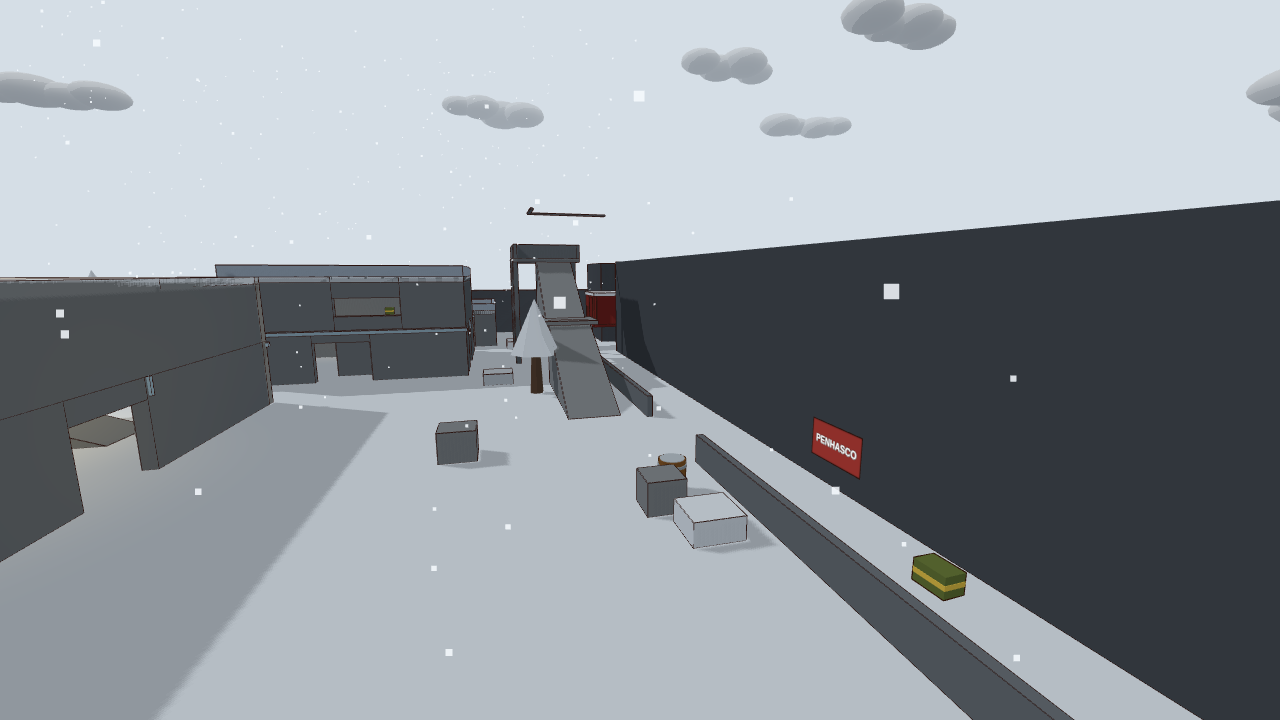
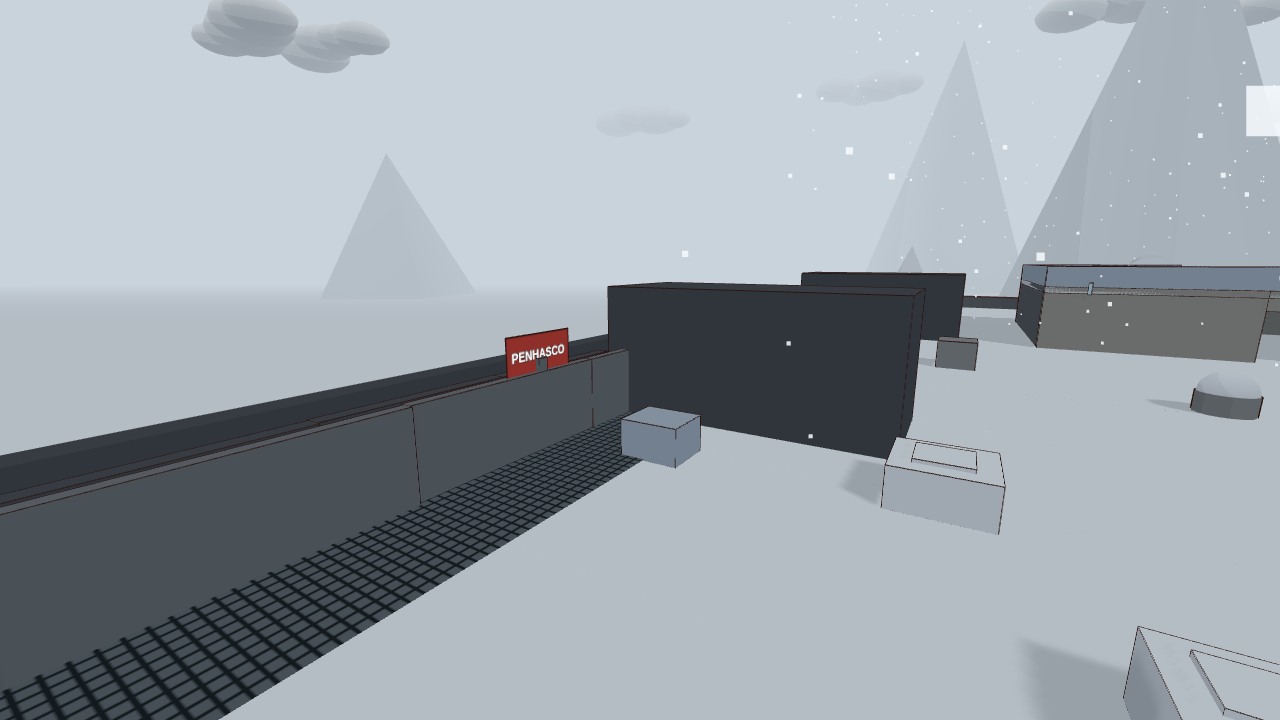
Ajusta o Posto Nevasca na rodada 2: passarela curva, pátio e penhasco.
A visada no chão do oeste cai para cerca de 34 m. A Sala Fria ganha claraboia de vidro, e o pátio sul desce 1,5 m com escada.

diff --git a/maps.js b/maps.js
@@ -532,29 +532,51 @@ export const MAPS = [];
   const H = 3.4;
   const col = { wall: METAL, wall2: METAL2, inner: IN, floor: FLOOR, roof: SNOW, roof2: SNOW2, stair: METAL, trim: ICE };
   const boxes = [];
-  const mound = (x, z, s = 2, h = 0.75) => boxes.push(B(x - s / 2, z - s / 2, x + s / 2, z + s / 2, h, h > 0.85 ? SNOW2 : SNOW));
+  const mound = (x, z, s = 2, h = 0.75, y0 = 0) => {
+    const base = Math.max(h, 0.95);
+    boxes.push(B(x - s / 2, z - s / 2, x + s / 2, z + s / 2, base, SNOW, y0));
+    boxes.push(B(x - s * 0.28, z - s * 0.28, x + s * 0.28, z + s * 0.28, 0.35, SNOW, y0 + base * 0.72));
+  };
   const C = (x, z, s = 1.3, h = 1.15, c = METAL2, y0 = 0) => boxes.push(crate(x, z, s, h, c, y0));
 
-  // lábio do penhasco: 0,4 m, dá pra passar. A oeste o chão some (map.fall) e y < -8 mata.
-  boxes.push(B(-24.15, -8, -23.7, 41.5, 12.4, ROCK, -12), B(-24.15, 48.2, -23.7, 56, 12.4, ROCK, -12));
-  // passarela: corredor de ~3,4 m. Guarda-corpo de 1,05 m não tampa o olho (1,6 m) — linha longa.
-  const rail = (z0, z1) => boxes.push(B(-21.28, z0, -21.02, z1, 1.05, METAL2));
-  rail(-6, 13.2); rail(19.6, 36.4);
+  // encosta oeste: a borda curva até 5 m para fora, pico em z=-2 (y do dossiê = 62).
+  const bulge = (z) => { const t = (z + 2) / 28; return (t <= -1 || t >= 1) ? 0 : 5 * (1 - t * t); };
+  const voids = [];
+  for (let z = -34; z < 28; z += 6) {
+    const z1 = Math.min(28, z + 6);
+    const edge = -24 - Math.max(bulge(z), bulge(z + 3), bulge(z1));
+    boxes.push(B(edge - 0.5, z, edge, z1, 1.15, ROCK)); // borda de 1,15 m
+    const gap = z1 > -8 && z < 4; // trecho em que dá para cair de verdade
+    if (!gap) boxes.push({ b: [edge - 0.4, 0, z, edge + 0.08, 4, z1], hide: true }); // colisor invisível de 4 m
+    const inner = edge + 3.5;
+    if (!(z >= 12 && z < 20)) boxes.push(B(inner, z, inner + 0.28, z1, 2.15, METAL2)); // fecha a corda reta
+    voids.push([-31, z, edge - 0.15, z1]);
+  }
+  voids.push([-31, 28, -24.2, 60], [-31, -60, -24.2, -34]);
+  boxes.push(B(26.4, -58, 30.6, 58, 4.5, ROCK)); // fecha o leste que o size maior abriu
+  boxes.push(B(-25.6, -2.15, -25.28, -1.85, 2.5, METAL2)); // mastro da placa PENHASCO
+  // rochas de 5 × 4 × 3,5 m: y45 → z=15, y92 → z=-32 (cortam a visada)
+  boxes.push(B(-27.2, 13, -16.2, 17, 4.2, ROCK), B(-26, -34, -16, -30, 4.2, ROCK));
+  boxes.push(B(-26, -10, -17, -6, 4.2, ROCK), B(-22, 46, -16.2, 49.2, 3.2, ROCK), B(-24, -54, -16.2, -50, 3.2, ROCK));
+  boxes.push(B(-12, 4, -5, 10, 2.8, ROCK), B(-22, 18, -15, 24, 2.8, ROCK), B(2, -38, 8, -33, 2.4, ROCK));
+  for (const z of [22, 8, -4, -16]) boxes.push(B(-23.2, z, -21.6, z + 1.4, 1.0, SNOW2)); // cobertura de 1 m a cada ~12–14 m
 
   // lab norte (spawn), 1 andar, portas pro pátio
   boxes.push(...building(-14, 48, 10, 58, { col, floors: 1, H: 3.5, parapet: 0.6,
     ops: [{ s: 'n', a: -8, b: -5 }, { s: 'n', a: 2, b: 5.2 }, { s: 's', a: -2, b: 1.2 }, { s: 'e', a: 50, b: 53 },
       { s: 'n', a: -12, b: -9.5, k: 'win', lo: 1.05, hi: 2.15 }, { s: 'w', a: 50, b: 53.2, k: 'win', lo: 1.05, hi: 2.1 }],
     inner: [{ axis: 'x', s0: -13.4, s1: 9.4, line: 53.2, ops: [{ a: -2.2, b: 1.2 }] }] }));
-  // prédio B3, 2 andares, entre o pátio e o lab
-  boxes.push(...building(-12, 33, 2, 45, { col, floors: 2, H, parapet: 0.7,
-    ops: [{ s: 'n', a: -6, b: -2.6 }, { s: 'e', a: 36, b: 39.4 }, { s: 's', a: -8, b: -4.6 }, { s: 'w', a: 36.5, b: 39.5 },
-      { s: 'e', a: 40.2, b: 43.2, f: 1, k: 'win', lo: 0.85, hi: 2.05 }, { s: 'n', a: -8, b: -4, f: 1, k: 'win', lo: 0.85, hi: 2.05 }],
-    stairs: [{ f: 0, r: [-9.6, 35.2, -3.4, 37.8], axis: 'x', dir: 1 }] }));
-  // garagem / sala com escada (lado do carro)
-  boxes.push(...building(8, 34, 18, 46, { col: { ...col, wall: CONC, wall2: METAL }, floors: 1, H: 3.6, parapet: 0.5,
-    ops: [{ s: 'n', a: 10.2, b: 14.2, k: 'wide' }, { s: 'w', a: 38, b: 41.2 }, { s: 'e', a: 37, b: 40 }] }));
-  C(13.5, 42, 2.2, 1.15, '#6E7378'); C(15.2, 40.2, 1.2, 0.9, RUST);
+  // pátio entre o lab (z≥48) e a Sala Fria (z≤28): os dois prédios do meio, corredor de 3,6 m.
+  // O antigo "prédio do meio" 14×12 era x −12…2, z 33…45 — na vista de cima parecia parte do lab. Agora é o bloco oeste.
+  boxes.push(...building(-16, 31, -2, 43, { col, floors: 2, H, parapet: 1.7,
+    ops: [{ s: 'n', a: -10, b: -6.4 }, { s: 's', a: -12, b: -8.4 }, { s: 'e', a: 34, b: 37.6 }, { s: 'w', a: 36, b: 39.4 },
+      { s: 'e', a: 38, b: 41.5, f: 1, k: 'win', lo: 0.85, hi: 2.05 }],
+    stairs: [{ f: 0, r: [-13.5, 33.2, -6.8, 36.2], axis: 'x', dir: 1 }] }));
+  boxes.push(...building(1.6, 30, 19.6, 44, { col: { ...col, wall: CONC, wall2: METAL }, floors: 2, H, parapet: 1.7,
+    ops: [{ s: 'n', a: 6, b: 9.6, k: 'wide' }, { s: 's', a: 8, b: 11.6 }, { s: 'w', a: 34, b: 37.6 }, { s: 'e', a: 36, b: 39.4 },
+      { s: 's', a: 14, b: 17.5, f: 1, k: 'win', lo: 0.85, hi: 2.05 }],
+    stairs: [{ f: 0, r: [4, 32.2, 11.2, 35.4], axis: 'x', dir: 1 }, { f: 1, r: [4, 38, 11.2, 41.2], axis: 'x', dir: 1 }] }));
+  C(8.5, 40, 1.6, 1.1, '#6E7378', H); C(14, 36, 1.2, 0.9, RUST);
 
   // SALA FRIA / control room: 22 × 22 m, mezanino a +3,4 m, átrio aberto, 5 portas
   boxes.push(...building(-2, 6, 20, 28, { col: { ...col, wall: CONC, wall2: METAL, inner: '#C4BFB4' }, floors: 2, H, roof: false,
@@ -564,14 +586,22 @@ export const MAPS = [];
       { s: 'w', a: 8.5, b: 12, f: 1, k: 'win', lo: 0.8, hi: 2.05 }, { s: 'e', a: 20, b: 24, f: 1, k: 'win', lo: 0.8, hi: 2.05 }],
     stairs: [{ f: 0, r: [1.6, 21.4, 10.2, 24.3], axis: 'x', dir: 1 }],
     floorHoles: { 1: [[-1.4, 6.6, 15.4, 20.4]] } }));
-  boxes.push(...slab(-2, 6, 20, 28, 2 * H, 0.35, SNOW, [[6.5, 12.5, 13.5, 19.5]]));
-  boxes.push(B(-1.6, 20.28, 15.2, 20.52, 1.0, METAL2, H), B(15.28, 6.9, 15.52, 20.35, 1.0, METAL2, H));
-  C(4.2, 12.2, 1.35, 1.2, METAL); C(5.6, 12.2, 1.15, 1.2, METAL2); C(11.2, 25.2, 1.3, 1.05, METAL, H);
+  boxes.push(...slab(-2, 6, 20, 28, 2 * H, 0.35, SNOW, [[5, 11, 13, 23]])); // vão da claraboia 8 × 12 m
+  // guarda-corpo de 1 m em volta do átrio
+  boxes.push(B(-1.5, 20.28, 15.2, 20.55, 1.0, METAL2, H), B(-1.5, 6.55, 15.2, 6.82, 1.0, METAL2, H));
+  boxes.push(B(15.22, 6.8, 15.5, 20.4, 1.0, METAL2, H), B(-1.55, 6.8, -1.28, 20.4, 1.0, METAL2, H));
+  // consoles (1,1 m) e arquivos de aço (2 m)
+  boxes.push(B(2.2, 12.4, 7.4, 13.8, 1.1, '#4d5963'), B(2.2, 16.2, 7.4, 17.6, 1.1, '#4d5963'));
+  for (const [x, z] of [[16.2, 8.2], [16.2, 22.4], [16.2, 24.6], [-0.4, 8.4], [3.2, 8.4], [3.2, 24.2]]) boxes.push(B(x, z, x + 0.7, z + 1.4, 2.0, '#9aa3aa'));
+  C(11.2, 25.2, 1.3, 1.05, METAL, H);
+  // chapa: frisos verticais na face norte da Sala Fria
+  for (let x = -1; x < 19; x += 1.7) boxes.push(B(x, 27.85, x + 0.12, 28.15, 3.1, METAL2, 0.2));
 
   // salas estreitas a leste (CQB), parede oeste é a da sala fria
   boxes.push(...building(20, 8, 26, 32, { col, floors: 1, H: 3.3, parapet: 0.4, noWall: ['w0'],
-    ops: [{ s: 'e', a: 12, b: 15 }, { s: 'e', a: 22, b: 25 }, { s: 's', a: 21.5, b: 24.4 }, { s: 'n', a: 21.2, b: 24.2 }],
-    inner: [{ axis: 'x', s0: 20.4, s1: 25.6, line: 18, ops: [{ a: 21.3, b: 24.1 }] }, { axis: 'x', s0: 20.4, s1: 25.6, line: 25, ops: [{ a: 21.3, b: 24.1 }] }] }));
+    ops: [{ s: 'e', a: 12, b: 15 }, { s: 'e', a: 22, b: 25 }, { s: 's', a: 23.4, b: 25.6 }, { s: 'n', a: 20.6, b: 22.4 }],
+    inner: [{ axis: 'x', s0: 20.4, s1: 25.6, line: 18, ops: [{ a: 23.2, b: 25.4 }] }, { axis: 'x', s0: 20.4, s1: 25.6, line: 25, ops: [{ a: 20.8, b: 22.6 }] }] }));
+  boxes.push(B(21.4, 40, 23.2, 44, 2.6, ROCK), B(21.4, -8, 23.2, -4, 2.6, ROCK), B(21.4, -42, 23.2, -38, 2.6, ROCK));
 
   // galpão sul + rampa pro telhado (antena)
   boxes.push(...building(-12, -46, 12, -30, { col: { ...col, wall: CONC }, floors: 1, H: 3.6, parapet: 1.15,
@@ -579,14 +609,21 @@ export const MAPS = [];
     roofGaps: [{ s: 'n', a: -2.6, b: 2.6 }] }));
   boxes.push(B(-2.7, -49.4, 2.7, -46, 0.28, SNOW, 3.32), R(-2.2, -55.2, 2.2, -49.2, 0, 3.6, 'z', 1, METAL));
   boxes.push(B(3.55, -38.45, 3.95, -38.05, 6.2, RUST, 3.6), B(3.2, -39.3, 4.3, -38.9, 0.35, RUST, 9.5));
+  // pátio sul a −1,5 m + escada metálica
+  boxes.push(B(-14, -26, 18, -6, 0.3, SNOW2, -1.8));
+  boxes.push(R(-1.6, -28.4, 1.6, -22.2, -1.5, 0, 'z', -1, METAL));
+  boxes.push(B(-1.9, -28.4, -1.62, -22.2, 1.0, METAL2, -1.2), B(1.62, -28.4, 1.9, -22.2, 1.0, METAL2, -1.2));
 
-  // torre do cabo (+8,1 m) e duas rampas, a leste da passarela
-  boxes.push(R(-19.8, 20.2, -17.2, 29, 0, 4.05, 'z', 1, METAL), B(-20.3, 28.2, -16.7, 31.1, 0.24, METAL, 3.81));
-  boxes.push(R(-19.8, 30.4, -17.2, 37.2, 4.05, 8.15, 'z', 1, METAL));
-  boxes.push(B(-20.5, 36.6, -15.5, 42.2, 0.28, METAL, 7.87));
-  for (const [x, z] of [[-20.2, 36.9], [-15.8, 36.9], [-20.2, 41.9], [-15.8, 41.9]]) boxes.push(B(x, z, x + 0.35, z + 0.35, 8.15, METAL2));
-  boxes.push(B(-20.5, 36.6, -15.5, 36.85, 1.0, METAL2, 8.15), B(-20.5, 41.95, -15.5, 42.2, 1.0, METAL2, 8.15));
-  boxes.push(B(-20.5, 36.6, -20.25, 42.2, 1.0, METAL2, 8.15), B(-15.75, 36.6, -15.5, 42.2, 1.0, METAL2, 8.15));
+  // torre treliçada (+8,1 m), a oeste do bloco do meio, fora do corredor
+  boxes.push(R(-22.4, 22, -19.6, 30, 0, 4.05, 'z', 1, METAL), B(-22.8, 29.4, -19.2, 32.2, 0.24, METAL, 3.81));
+  boxes.push(R(-22.4, 31.6, -19.6, 40, 4.05, 8.15, 'z', 1, METAL));
+  boxes.push(B(-23.2, 39.2, -18.4, 44.6, 0.28, METAL, 7.87));
+  for (const [x, z] of [[-22.9, 39.4], [-18.7, 39.4], [-22.9, 44.2], [-18.7, 44.2]]) {
+    boxes.push(B(x, z, x + 0.28, z + 0.28, 8.15, METAL2));
+    boxes.push(B(x + 0.05, z, x + 0.22, z + 4.6, 0.16, METAL2, 2.4), B(x, z + 0.05, x + 4.2, z + 0.2, 0.16, METAL2, 4.6));
+  }
+  boxes.push(B(-23.2, 39.2, -18.4, 39.45, 1.75, METAL2, 8.15), B(-23.2, 44.35, -21.2, 44.6, 1.75, METAL2, 8.15), B(-20.2, 44.35, -18.4, 44.6, 1.75, METAL2, 8.15));
+  boxes.push(B(-23.2, 39.2, -22.95, 44.6, 1.75, METAL2, 8.15), B(-18.65, 39.2, -18.4, 44.6, 1.75, METAL2, 8.15));
 
   // teleférico no rasgo do penhasco (piso a +2,37 m)
   const gy = 2.37;
@@ -595,55 +632,65 @@ export const MAPS = [];
   boxes.push(...wallZ(42.45, 46.55, -22.8, 0.18, 2.6, RUST, [door(43.15, 45.85, 2.45)], gy));
   boxes.push(...wallX(-25.7, -22.95, 42.4, 0.18, 2.6, RUST, [], gy));
   boxes.push(...wallX(-25.7, -22.95, 46.6, 0.18, 2.6, RUST, [], gy));
-  boxes.push(B(-25.95, 42.25, -22.65, 46.75, 0.28, SNOW, gy + 2.6));
+  boxes.push(B(-25.95, 42.25, -22.65, 46.75, 0.32, SNOW, gy + 2.55));
   boxes.push(R(-22.65, 43.15, -17.6, 45.85, 0, gy, 'x', -1, METAL));
-  boxes.push({ wp: [-21.3, gy, 44.5] }, { wp: [-24.2, gy, 44.5] }, { wp: [-18.2, 8.15, 39] }, { wp: [-18.6, 4.05, 29.5] });
-  // cabo (acima da cabeça de quem está na torre)
-  boxes.push(B(-24.2, 44.2, -17.2, 44.45, 0.12, METAL2, 12.2), B(-17.4, 40.6, -17.15, 44.5, 0.12, METAL2, 12.2));
+  boxes.push({ wp: [-21.3, gy, 44.5] }, { wp: [-24.2, gy, 44.5] }, { wp: [-20.6, 8.15, 42] }, { wp: [-21, 4.05, 31] });
+  // dois cabos: cabine → torre → fora do mapa, para a neblina
+  boxes.push(B(-24.4, 43.6, -19.2, 43.78, 0.08, '#3a4248', 8.4), B(-24.4, 45.3, -19.2, 45.48, 0.08, '#3a4248', 7.6));
+  boxes.push(B(-30.5, 43.6, -24.2, 43.78, 0.08, '#3a4248', 11.5), B(-30.5, 45.3, -24.2, 45.48, 0.08, '#3a4248', 12.2));
 
   // montes de neve (0,55–1,0 m) e caixotes de cobertura — pátio norte, vão central, pátio sul
   for (const [x, z, s, h] of [[-16, 46.2, 2.1, 0.7], [-14, 30.2, 1.8, 0.7], [5.2, 30.6, 1.7, 0.8], [14.2, 31.2, 2, 0.85],
     [-16, -4, 2, 0.95], [-13.2, 1.4, 1.5, 0.85], [2.6, -6.6, 1.5, 0.9], [-6, -8, 1.6, 0.7], [10, -6, 1.6, 0.9], [18, -4, 1.6, 0.75],
-    [-16, -14, 2, 0.85], [8, -12, 1.8, 0.65], [17, -16, 2, 1.0], [-15, -24, 2, 0.8],
-    [10, -24, 2, 0.75], [18, -26, 2.1, 0.9], [-6, 2.2, 2, 0.8], [14, 3.2, 1.8, 0.7], [22.5, 4.2, 1.5, 0.65],
-    [-19.4, 8.2, 1.5, 0.7], [0, 3.4, 1.6, 0.7]]) mound(x, z, s, h);
-  C(-12.4, 16.2, 1.4, 1.2, METAL); C(-8, -20, 1.5, 1.3, '#6E5438'); C(14, -20, 1.3, 1.15, METAL2); C(-18.6, 10, 1.2, 1.05, METAL);
+    [-6, 2.2, 2, 0.8], [14, 3.2, 1.8, 0.7], [22.5, 4.2, 1.5, 0.65],
+    [-19.4, 8.2, 1.5, 0.7], [0, 3.4, 1.6, 0.7], [-4, -3, 1.6, 1.15]]) mound(x, z, s, h);
+  C(-12.4, 16.2, 1.4, 1.2, METAL); C(-8, -20, 1.5, 1.3, '#6E5438', -1.5); C(14, -20, 1.3, 1.15, METAL2, -1.5); C(-16, -21, 1.6, 1.3, METAL); C(-18.6, 10, 1.2, 1.05, METAL);
+  for (const [x, z, s, h] of [[-6, -14, 1.6, 0.8], [6, -18, 1.6, 0.7], [14, -16, 1.5, 1.2], [16, -22, 1.4, 1.15]]) boxes.push(B(x - s / 2, z - s / 2, x + s / 2, z + s / 2, h, SNOW, -1.5));
 
   // estalactites de gelo nos beirais (acima da cabeça: y ≥ 2,6)
-  for (const [x, z] of [[-2, 18], [20, 18], [-12, 39], [2, 39], [-10, -30], [10, -30]]) boxes.push(B(x - 0.08, z - 0.08, x + 0.08, z + 0.08, 0.7, ICE, 2.7));
+  for (const [x, z, y] of [[-2, 18, 2.7], [20, 18, 2.7], [-12, 39, 6.4], [16, 38, 6.4], [-10, -30, 3.2], [8, -30, 3.2], [-14, 54, 3.1], [4, 54, 3.1], [-8, 43, 6.4], [12, 44, 6.4]]) boxes.push(B(x - 0.08, z - 0.08, x + 0.08, z + 0.08, 0.65, ICE, y));
+  boxes.push(B(-1.15, -23, -0.65, -12, 0.04, '#6e767e', -1.46), B(2.15, -23, 2.65, -13, 0.04, '#6e767e', -1.46));
 
   const props = [
     { t: 'dome', x: 15.6, z: 52.2, r: 2.15, h: 1.25, c: CONC, cap: SNOW },
     { t: 'dome', x: 6.5, z: 1.6, r: 1.7, h: 1.05, c: METAL, cap: SNOW },
-    { t: 'tank', x: -8.2, z: -16.5, r: 1.15, h: 2.45, c: METAL, cap: SNOW, band: RUST },
-    { t: 'tank', x: 16.5, z: -10, r: 0.85, h: 1.8, c: RUST, cap: SNOW2 },
-    { t: 'truck', x: 1.5, z: -18.5, c: '#4A4E54' },
+    { t: 'tank', x: -8.2, z: -16.5, y: -1.5, r: 0.75, h: 2.2, c: METAL, cap: SNOW, band: RUST },
+    { t: 'tank', x: 16.5, z: -10, y: -1.5, r: 0.85, h: 1.8, c: RUST, cap: SNOW2 },
+    { t: 'truck', x: 1.5, z: -18.5, y: -1.5, c: '#4A4E54' },
     { t: 'pine', x: -21.2, z: -56, s: 1.15 }, { t: 'pine', x: 21.2, z: 55.2, s: 1.25 }, { t: 'pine', x: 23.2, z: 2.2, s: 1.05 },
     { t: 'pine', x: 22.4, z: -27, s: 1.1 }, { t: 'pine', x: -16.2, z: 26.5, s: 0.95 }, { t: 'pine', x: 18.5, z: -52, s: 1.2 },
     { t: 'sign', x: 6, y: 4.5, z: 28.35, w: 6.2, h: 1.35, rot: 0, text: 'SALA FRIA', bg: RUST, fg: '#F2D9A0' },
-    { t: 'sign', x: -23.15, y: 2.15, z: 8, w: 2.2, h: 1.15, rot: Math.PI / 2, text: 'PENHASCO', bg: RUST, fg: '#fff' },
+    { t: 'sign', x: -25.4, y: 2.6, z: -2, w: 2.4, h: 1.15, rot: Math.PI / 2, text: 'PENHASCO', bg: RUST, fg: '#fff' },
     { t: 'sign', x: 0, y: 3.2, z: -29.6, w: 5.5, h: 1.2, rot: Math.PI, text: 'GALPÃO', bg: '#3E4248', fg: SNOW },
-    { t: 'pane', x0: 7, z0: 13, x1: 13, z1: 19, y: 6.72, axis: 'y', c: 0xBFDDEB, o: 0.33 },
-    { t: 'keg', x: -10.2, z: 41.6 }, { t: 'keg', x: 0.4, z: 36.2 }, { t: 'keg', x: 16.2, z: 30.5 },
-    { t: 'keg', x: -8.1, z: -4.1 }, { t: 'keg', x: -4.1, z: -6.1 }, { t: 'keg', x: -12.1, z: 0.6 }, { t: 'keg', x: 1.1, z: -2.1 },
-    { t: 'keg', x: -14.5, z: -18 }, { t: 'keg', x: 12.5, z: -8.5 }, { t: 'keg', x: -19.3, z: 11 },
+    { t: 'sign', x: 9, y: 5.3, z: 27.2, w: 5.4, h: 1.05, rot: Math.PI, text: '12:00  09:40  18:10', bg: '#1c242c', fg: '#F2D9A0' },
+    { t: 'pane', x0: 5.2, z0: 11.2, x1: 8.8, z1: 16.6, y: 6.78, axis: 'y', c: 0xBFDDEB, o: 0.38 },
+    { t: 'pane', x0: 9.2, z0: 11.2, x1: 12.8, z1: 16.6, y: 6.78, axis: 'y', c: 0xBFDDEB, o: 0.38 },
+    { t: 'pane', x0: 5.2, z0: 17.2, x1: 8.8, z1: 22.6, y: 6.78, axis: 'y', c: 0xBFDDEB, o: 0.38 },
+    { t: 'pane', x0: 9.2, z0: 17.2, x1: 12.8, z1: 22.6, y: 6.78, axis: 'y', c: 0xBFDDEB, o: 0.38 },
+    { t: 'pane', x0: -25.5, z0: 43.3, x1: -25.5, z1: 46.2, y: 3.7, h: 1.3, axis: 'z', c: 0xBFDDEB, o: 0.4 },
+    { t: 'grate', x0: -26.5, z0: -8, x1: -22.5, z1: 8, y: 0.04 },
+    { t: 'dish', x: -6, y: 4.3, z: -38, r: 1.15 }, { t: 'dish', x: 8, y: 4.4, z: -34, r: 0.9 },
+    { t: 'heli', x: 48, y: 16, z: -8, rot: 0.6 },
+    { t: 'pine', x: -28, z: -6, y: -16, s: 1.4 }, { t: 'pine', x: -27, z: 8, y: -18, s: 1.1 }, { t: 'pine', x: -29, z: -18, y: -14, s: 1.6 },
+    { t: 'keg', x: -0.2, z: 28.4 }, { t: 'keg', x: 8, z: 46.8 }, { t: 'keg', x: 21, z: 28 },
+    { t: 'keg', x: -8.1, z: -14, y: -1.5 }, { t: 'keg', x: 6, z: -16, y: -1.5 }, { t: 'keg', x: -19.3, z: 11 },
   ];
-  const roofs = [[-14, 48, 10, 58, 3.5], [-12, 33, 2, 45, 6.8], [8, 34, 18, 46, 3.6],
-    [-2, 6, 20, 12.5, 6.8], [-2, 19.5, 20, 28, 6.8], [-2, 12.5, 6.5, 19.5, 6.8], [13.5, 12.5, 20, 19.5, 6.8],
-    [20, 8, 26, 32, 3.3], [-12, -46, 12, -30, 3.6], [-25.9, 42.2, -22.6, 46.8, 5.25], [-20.5, 36.6, -15.5, 42.2, 8.15]];
+  const roofs = [[-14, 48, 10, 58, 3.5], [-16, 31, -2, 43, 6.8], [1.6, 30, 19.6, 44, 6.8],
+    [-2, 6, 20, 28, 6.8],
+    [20, 8, 26, 32, 3.3], [-12, -46, 12, -30, 3.6], [-25.9, 42.2, -22.6, 46.8, 5.25], [-23.2, 39.2, -18.4, 44.6, 8.15]];
   MAPS.push({
     id: 'posto-nevasca', name: 'Posto Nevasca',
-    desc: 'Base no cume: sala fria com mezanino e claraboia, passarela no penhasco e salas estreitas a leste.',
-    size: [26, 60], wallH: 5, wallColor: [ROCK, '#3E4248'], openMax: 7.5, laneMin: 40,
-    fall: { y: -8, rects: [[-26, -60, -24.05, 60]] },
-    palette: { sky: '#D5DEE6', fog: ['#C9D3DC', 48, 170], hemi: ['#E8EEF3', '#8B98A6', 1.35], sun: ['#F4F7FA', 0.95], ground: SNOW, tiles: null, clouds: true,
-      lights: [['#F2D9A0', 8, 2.5, 16, 16, 14], ['#F2D9A0', 8, 5.6, 24, 14, 12], ['#F2D9A0', -2, 2.4, 52, 14, 12], ['#F2D9A0', 0, 2.3, -38, 14, 12], ['#F2D9A0', 23, 2.3, 16, 10, 9]] },
+    desc: 'Base no cume: sala fria com mezanino e claraboia, passarela curva no penhasco e salas estreitas a leste.',
+    size: [31, 60], wallH: 1.2, wallColor: [ROCK, ROCK], openMax: 8, laneMin: 40,
+    fall: { y: -6, rects: voids, basins: [[-14, -26, 18, -6, -1.5]], haze: true, pit: '#d5dee6', floor: -30 },
+    palette: { sky: '#C9D3DC', fog: ['#C9D3DC', 40, 120], hemi: ['#e7eef3', '#8B98A6', 1.55], sun: ['#f4f7fa', 0.72], ground: SNOW, tiles: null, clouds: true, mountains: true,
+      lights: [['#F2D9A0', 4, 2.6, 14, 14, 11], ['#F2D9A0', 10, 2.6, 18, 14, 11], ['#F2D9A0', 6, 5.5, 22, 12, 9], ['#F2D9A0', 12, 5.5, 16, 12, 9], ['#F2D9A0', -8, 2.5, 36, 12, 10], ['#F2D9A0', 10, 2.5, 36, 12, 10]] },
     weather: { kind: 'snow', n: 1400, fall: 6.2, wind: [2.3, 0, 0.55], top: 34, color: 0xF7FBFF, size: 0.15, roofs },
     ...fin(boxes), props,
-    spawns: [[-6, 50], [2, 52], [20, 48], [-8, 42], [4, 40], [12, 38], [-8, -52], [0, -56], [8, -50], [-4, -58], [6, -44], [-14, -50]],
-    pickups: [['health', 8, 14], ['health', -5, 42.6], ['health', 4, -24], ['health', 6, 50.5], ['health', -18, 39, 8.15],
-      ['ammo', -22.9, 4], ['ammo', 23, 14], ['ammo', -6, 40.5, H], ['ammo', 0, -38, 3.6],
-      ['grenade', 13, 37], ['grenade', -4, -22], ['grenade', 13.2, 23.4, H]],
+    spawns: [[-6, 50], [2, 52], [22, 52], [-12, 46], [8, 29.2], [16, 46], [-8, -52], [0, -56], [8, -50], [-4, -58], [6, -44], [-14, -50]],
+    pickups: [['health', 8, 14], ['health', -10, 46], ['health', 10, -20, -1.5], ['health', 6, 50.5], ['health', -10, 38, H],
+      ['ammo', -26.4, -1], ['ammo', 23.6, 20], ['ammo', -5, 40, H], ['ammo', 0, -38, 3.6],
+      ['grenade', 8, 36], ['grenade', 8, -14, -1.5], ['grenade', 13.2, 23.4, H]],
     showcase: [4, 0, 30.5], view: [-16, 1.6, 2, -0.35, -0.04],
     test: { stairs: { from: [0.6, 0, 22.85], to: [11.4, H, 22.85], level: H }, roof: { from: [0, 0, -56.2], to: [0, 3.6, -38], level: 3.6 }, under: { from: [17.3, 0, 9.5], to: [17.3, 0, 16.5], ceil: 3.1 } },
   });

diff --git a/world.js b/world.js
@@ -166,7 +166,27 @@ function buildProp(p, ctx) {
       m.position.set(p.x, p.y, p.z); m.rotation.y = p.rot || 0; group.add(m); break;
     }
     case 'pine': { // pinheiro nevado: só o tronco colide; o visual é instanciado no fim
-      solid(p.x - 0.4, y, p.z - 0.4, p.x + 0.4, y + 3.1, p.z + 0.4); break;
+      if (p.y == null || p.y > -2) solid(p.x - 0.4, y, p.z - 0.4, p.x + 0.4, y + 3.1, p.z + 0.4); break;
+    }
+    case 'grate': { // grade da passarela: só visual
+      const w = p.x1 - p.x0, d = p.z1 - p.z0;
+      const tex = canvasTex(64, 64, (x) => { x.fillStyle = '#5c656c'; x.fillRect(0, 0, 64, 64); x.fillStyle = '#1c2428'; for (let i = 0; i < 8; i++) { x.fillRect(i * 8, 0, 2, 64); x.fillRect(0, i * 8, 64, 2); } });
+      tex.wrapS = tex.wrapT = THREE.RepeatWrapping; tex.repeat.set(Math.max(1, w / 2), Math.max(1, d / 2));
+      const m = new THREE.Mesh(new THREE.PlaneGeometry(w, d), toon(0xffffff, { map: tex }));
+      m.rotation.x = -Math.PI / 2; m.position.set((p.x0 + p.x1) / 2, p.y || 0.03, (p.z0 + p.z1) / 2); group.add(m); break;
+    }
+    case 'dish': { // parabólica, sem colisão
+      const r = p.r || 1.1;
+      const d = new THREE.Mesh(new THREE.SphereGeometry(r, 12, 8, 0, Math.PI * 2, 0, Math.PI * 0.45), toon(p.c || '#d5dbe0'));
+      d.rotation.x = -0.9; d.position.set(p.x, p.y, p.z); group.add(d);
+      const mast = new THREE.Mesh(new THREE.CylinderGeometry(0.06, 0.06, 1.4, 6), toon('#6E7378')); mast.position.set(p.x, p.y - 0.4, p.z); group.add(mast); break;
+    }
+    case 'heli': { // silhueta na neblina, sem colisão
+      const g = new THREE.Group();
+      const body = new THREE.Mesh(new THREE.BoxGeometry(7, 2.2, 2.4), toon('#2a3138')); body.position.y = 1.2; g.add(body);
+      const tail = new THREE.Mesh(new THREE.BoxGeometry(4.5, 0.7, 0.7), toon('#2a3138')); tail.position.set(-5.2, 1.6, 0); g.add(tail);
+      const rotor = new THREE.Mesh(new THREE.BoxGeometry(11, 0.12, 0.35), toon('#1c2228')); rotor.position.y = 2.5; g.add(rotor);
+      g.position.set(p.x, p.y, p.z); g.rotation.y = p.rot || 0; group.add(g); break;
     }
     case 'dome': { // domo / tanque esférico (radar)
       const r = p.r || 2.2, h = p.h || 1.3;
@@ -246,7 +266,22 @@ export function buildWorld(map) {
   }
   if (map.fall) for (const [x0, z0, x1, z1] of voids) {
     const pit = new THREE.Mesh(new THREE.PlaneGeometry(Math.max(0.4, x1 - x0), Math.max(0.4, z1 - z0)), toon(map.fall.pit || '#1a2228'));
-    pit.rotation.x = -Math.PI / 2; pit.position.set((x0 + x1) / 2, map.fall.y - 6, (z0 + z1) / 2); pit.receiveShadow = true; group.add(pit);
+    pit.rotation.x = -Math.PI / 2; pit.position.set((x0 + x1) / 2, (map.fall.floor ?? -30), (z0 + z1) / 2); pit.receiveShadow = true; group.add(pit);
+  }
+  if (map.fall && map.fall.haze) {
+    const hazeMat = (o) => new THREE.MeshBasicMaterial({ color: 0xC9D3DC, transparent: true, opacity: o, depthWrite: false, side: THREE.DoubleSide });
+    for (const [yy, op, grow] of [[-10, 0.45, 8], [-18, 0.62, 18], [-26, 0.8, 30]]) {
+      const h = new THREE.Mesh(new THREE.PlaneGeometry(hx * 2 + grow, hz * 2 + grow), hazeMat(op));
+      h.rotation.x = -Math.PI / 2; h.position.y = yy; group.add(h);
+    }
+  }
+  if (pal.mountains) {
+    const geo = new THREE.ConeGeometry(18, 46, 5); geo.translate(0, 18, 0);
+    const peaks = new THREE.InstancedMesh(geo, toon('#e7eef3'), 9);
+    const dummy = new THREE.Object3D();
+    const ring = [[-90, -40], [-70, 50], [-20, -100], [40, -90], [100, -30], [80, 60], [10, 100], [-100, 10], [0, -70]];
+    ring.forEach(([x, z], i) => { dummy.position.set(x, -8, z); dummy.scale.set(1, 0.7 + (i % 3) * 0.25, 1); dummy.updateMatrix(); peaks.setMatrixAt(i, dummy.matrix); });
+    group.add(peaks);
   }
   if (pal.tiles) {
     const [c1, c2, size, count] = pal.tiles, cell = size / count;
@@ -259,7 +294,11 @@ export function buildWorld(map) {
   add(-hx - 1, 0, -hz - 1, hx + 1, wh, -hz, wc1, null, WALL_COLLIDE_H); add(-hx - 1, 0, hz, hx + 1, wh, hz + 1, wc1, null, WALL_COLLIDE_H);
   add(-hx - 1, 0, -hz, -hx, wh, hz, wc2, null, WALL_COLLIDE_H); add(hx, 0, -hz, hx + 1, wh, hz, wc2, null, WALL_COLLIDE_H);
   // caixas e rampas do mapa
-  for (const o of map.boxes) { const [x0, y0, z0, x1, y1, z1] = o.b; if (x1 - x0 < 0.01 || y1 - y0 < 0.01 || z1 - z0 < 0.01) continue; add(x0, y0, z0, x1, y1, z1, o.c, o.ramp || null); }
+  for (const o of map.boxes) {
+    const [x0, y0, z0, x1, y1, z1] = o.b; if (x1 - x0 < 0.01 || y1 - y0 < 0.01 || z1 - z0 < 0.01) continue;
+    if (o.hide) { solid(x0, y0, z0, x1, y1, z1); continue; } // colisor invisível (penhasco)
+    add(x0, y0, z0, x1, y1, z1, o.c, o.ramp || null);
+  }
   for (const p of map.props || []) buildProp(p, { group, solid, add });
   buildPines((map.props || []).filter((p) => p.t === 'pine'), group);
   if (map.weather) { const w = makeWeather(map); group.userData.weather = w; group.add(w.pts); }

diff --git a/shared/physics.js b/shared/physics.js
@@ -8,9 +8,10 @@ import { GRAV, STEP, RADIUS, HEIGHT, NADE } from './rules.js';
 
 export const WALL_COLLIDE_H = 40;
 export const FALL_FLOOR = -40; // chão fantasma do abismo; a morte acontece bem antes (map.fall.y)
-// map.fall = { y: -8, margin?: metros da borda sem chão, rects?: [[x0,z0,x1,z1]] }
+// map.fall = { y, margin?, rects?: [[x0,z0,x1,z1]], basins?: [[x0,z0,x1,z1,piso]] }
 export function baselineY(fall, x, z, hx, hz) {
   if (!fall) return 0;
+  if (fall.basins) for (const r of fall.basins) if (x >= r[0] && x <= r[2] && z >= r[1] && z <= r[3]) return r[4];
   if (fall.margin && (Math.abs(x) > hx - fall.margin || Math.abs(z) > hz - fall.margin)) return FALL_FLOOR;
   if (fall.rects) for (const r of fall.rects) if (x >= r[0] && x <= r[2] && z >= r[1] && z <= r[3]) return FALL_FLOOR;
   return 0;
@@ -38,7 +39,7 @@ export function mapSolids(map) {
       case 'stall': add(p.x - 1.2, y, p.z - 0.6, p.x + 1.2, y + 1.0, p.z + 0.6); add(p.x - 1.6, y + 2.6, p.z - 1.1, p.x + 1.6, y + 2.72, p.z + 1.1); break;
       case 'awning': add(p.x0, p.y, p.z0, p.x1, p.y + 0.12, p.z1); break;
       case 'jar': add(p.x - 0.4, y, p.z - 0.4, p.x + 0.4, y + 1.1, p.z + 0.4); break;
-      case 'pine': add(p.x - 0.4, y, p.z - 0.4, p.x + 0.4, y + 3.1, p.z + 0.4); break;
+      case 'pine': if (!(p.y < -2)) add(p.x - 0.4, y, p.z - 0.4, p.x + 0.4, y + 3.1, p.z + 0.4); break;
       case 'dome': { const r = p.r || 2.2, h = (p.h || 1.3) + r * 0.55; add(p.x - r, y, p.z - r, p.x + r, y + h, p.z + r); break; }
       case 'tank': { const r = p.r || 1.15, h = p.h || 2.5; add(p.x - r, y, p.z - r, p.x + r, y + h, p.z + r); break; }
       default: break; // placas, neon, rua, água, estandarte, vidro: sem colisão

diff --git a/nav.js b/nav.js
@@ -25,6 +25,7 @@ export function buildNav(o) {
   // grade
   for (let x = -hx + 0.9; x <= hx - 0.9; x += spacing) for (let z = -hz + 0.9; z <= hz - 0.9; z += spacing) {
     const hs = new Set([0]);
+    const low = groundAt(x, z, -3); if (low < -0.05 && low > -8) hs.add(+low.toFixed(3));
     for (const s of solids) if (x >= s.min.x && x <= s.max.x && z >= s.min.z && z <= s.max.z && s.max.y < 30) hs.add(+topAt(s, x, z).toFixed(3));
     for (const h of hs) tryNode(x, z, h);
   }

diff --git a/main.js b/main.js
@@ -31,6 +31,7 @@ const renderer = new THREE.WebGLRenderer({ canvas, antialias: true });
 renderer.setPixelRatio(Math.min(window.devicePixelRatio, 2));
 renderer.setSize(innerWidth, innerHeight);
 renderer.shadowMap.enabled = true;
+renderer.shadowMap.type = THREE.PCFSoftShadowMap;
 renderer.autoClear = false;
 
 const scene = new THREE.Scene();

diff --git a/MAPS_NOTES.md b/MAPS_NOTES.md
@@ -60,9 +60,19 @@ Spawns: 6 no norte (z 38…52) e 6 no sul (z −58…−44), distância mínima 
 
 Linha longa medida na auditoria: cerca de 100 m (a passarela ainda está reta demais; a meta do dossiê é 40–60 m). Visão quebrada: ~22% dos pares a ≥ 10 m se enxergam (teto do teste: 30%). Ponto mais aberto: 7,2 m.
 
-O penhasco oeste é um retângulo sem chão (`fall.rects` x ≤ −24,05). Um lábio de rocha de 0,4 m marca a borda; passar dele derruba, e y < −8 mata. O teleférico continua com piso próprio em cima do buraco.
+## Posto Nevasca — rodada 2
 
-Rodada 2, quando chegar print de comparação: quebrar a reta de ~100 m no meio da passarela.
+Coordenadas do pesquisador: x 0 oeste → 52 leste, y 0 lab → 120 galpão. No motor, x = x_pesquisa − 26 e z = 60 − y_pesquisa. O vão entre o lab e a Sala Fria, lido no print como y 32–48, no motor é z ≈ 30–46 (o lab está em z 48–58, y de pesquisa 2–12, não 12–28).
+
+O prédio do meio de 14×12 m da rodada 1 era x −12…2, z 33…45. Na vista de cima ele colava no lab. Na rodada 2 ele foi refeito como o bloco oeste do pátio: **x −16…−2, z 31…43** (14×12 m), dois andares, piso a +3,4 m. Ao lado, o bloco com escada: **x 1,6…19,6, z 30…44** (18×14 m). O corredor entre eles tem 3,6 m.
+
+Passarela: curva de até 5 m para oeste, pico em z = −2 (y de pesquisa 62). Rochas de 5×4×4,2 m em z 13–17 e z −34…−30 (y 43–47 e 90–94). Cobertura de 1 m a cada ~12 m. A visada no chão do oeste, medida olho a olho, ficou em **34 m**. A maior visada do mapa inteiro ainda passa de 60 m: é a rampa da torre (y ≈ 4) olhando o sudeste, não o corredor oeste.
+
+Penhasco: borda de rocha de 1,15 m, colisor invisível de 4 m no resto do trecho, e um vão no pico da curva onde dá para cair. Kill em y < −6. Encosta visual até −30 m, pinheiros no fundo, neblina de altura abaixo de −10 m. A placa PENHASCO está num mastro na borda. Neblina de distância: 40–120 m. Montanhas claras no horizonte. Sombras suaves.
+
+Sala Fria: claraboia de vidro em quatro panos, 8×12 m, a +6,8 m. A neve para no vidro e não entra. Consoles de 1,1 m, seis arquivos de 2 m, parede de relógios no mezanino, guarda-corpo de 1 m, seis luzes `#F2D9A0`.
+
+Pátio sul a −1,5 m, com escada metálica. Teleférico com janela e dois cabos até a torre treliçada e para fora, na neblina. Silhueta de helicóptero a leste.
 
 ## Morro do Leitão (rodada 1) — referência Favela (MW2)
 
